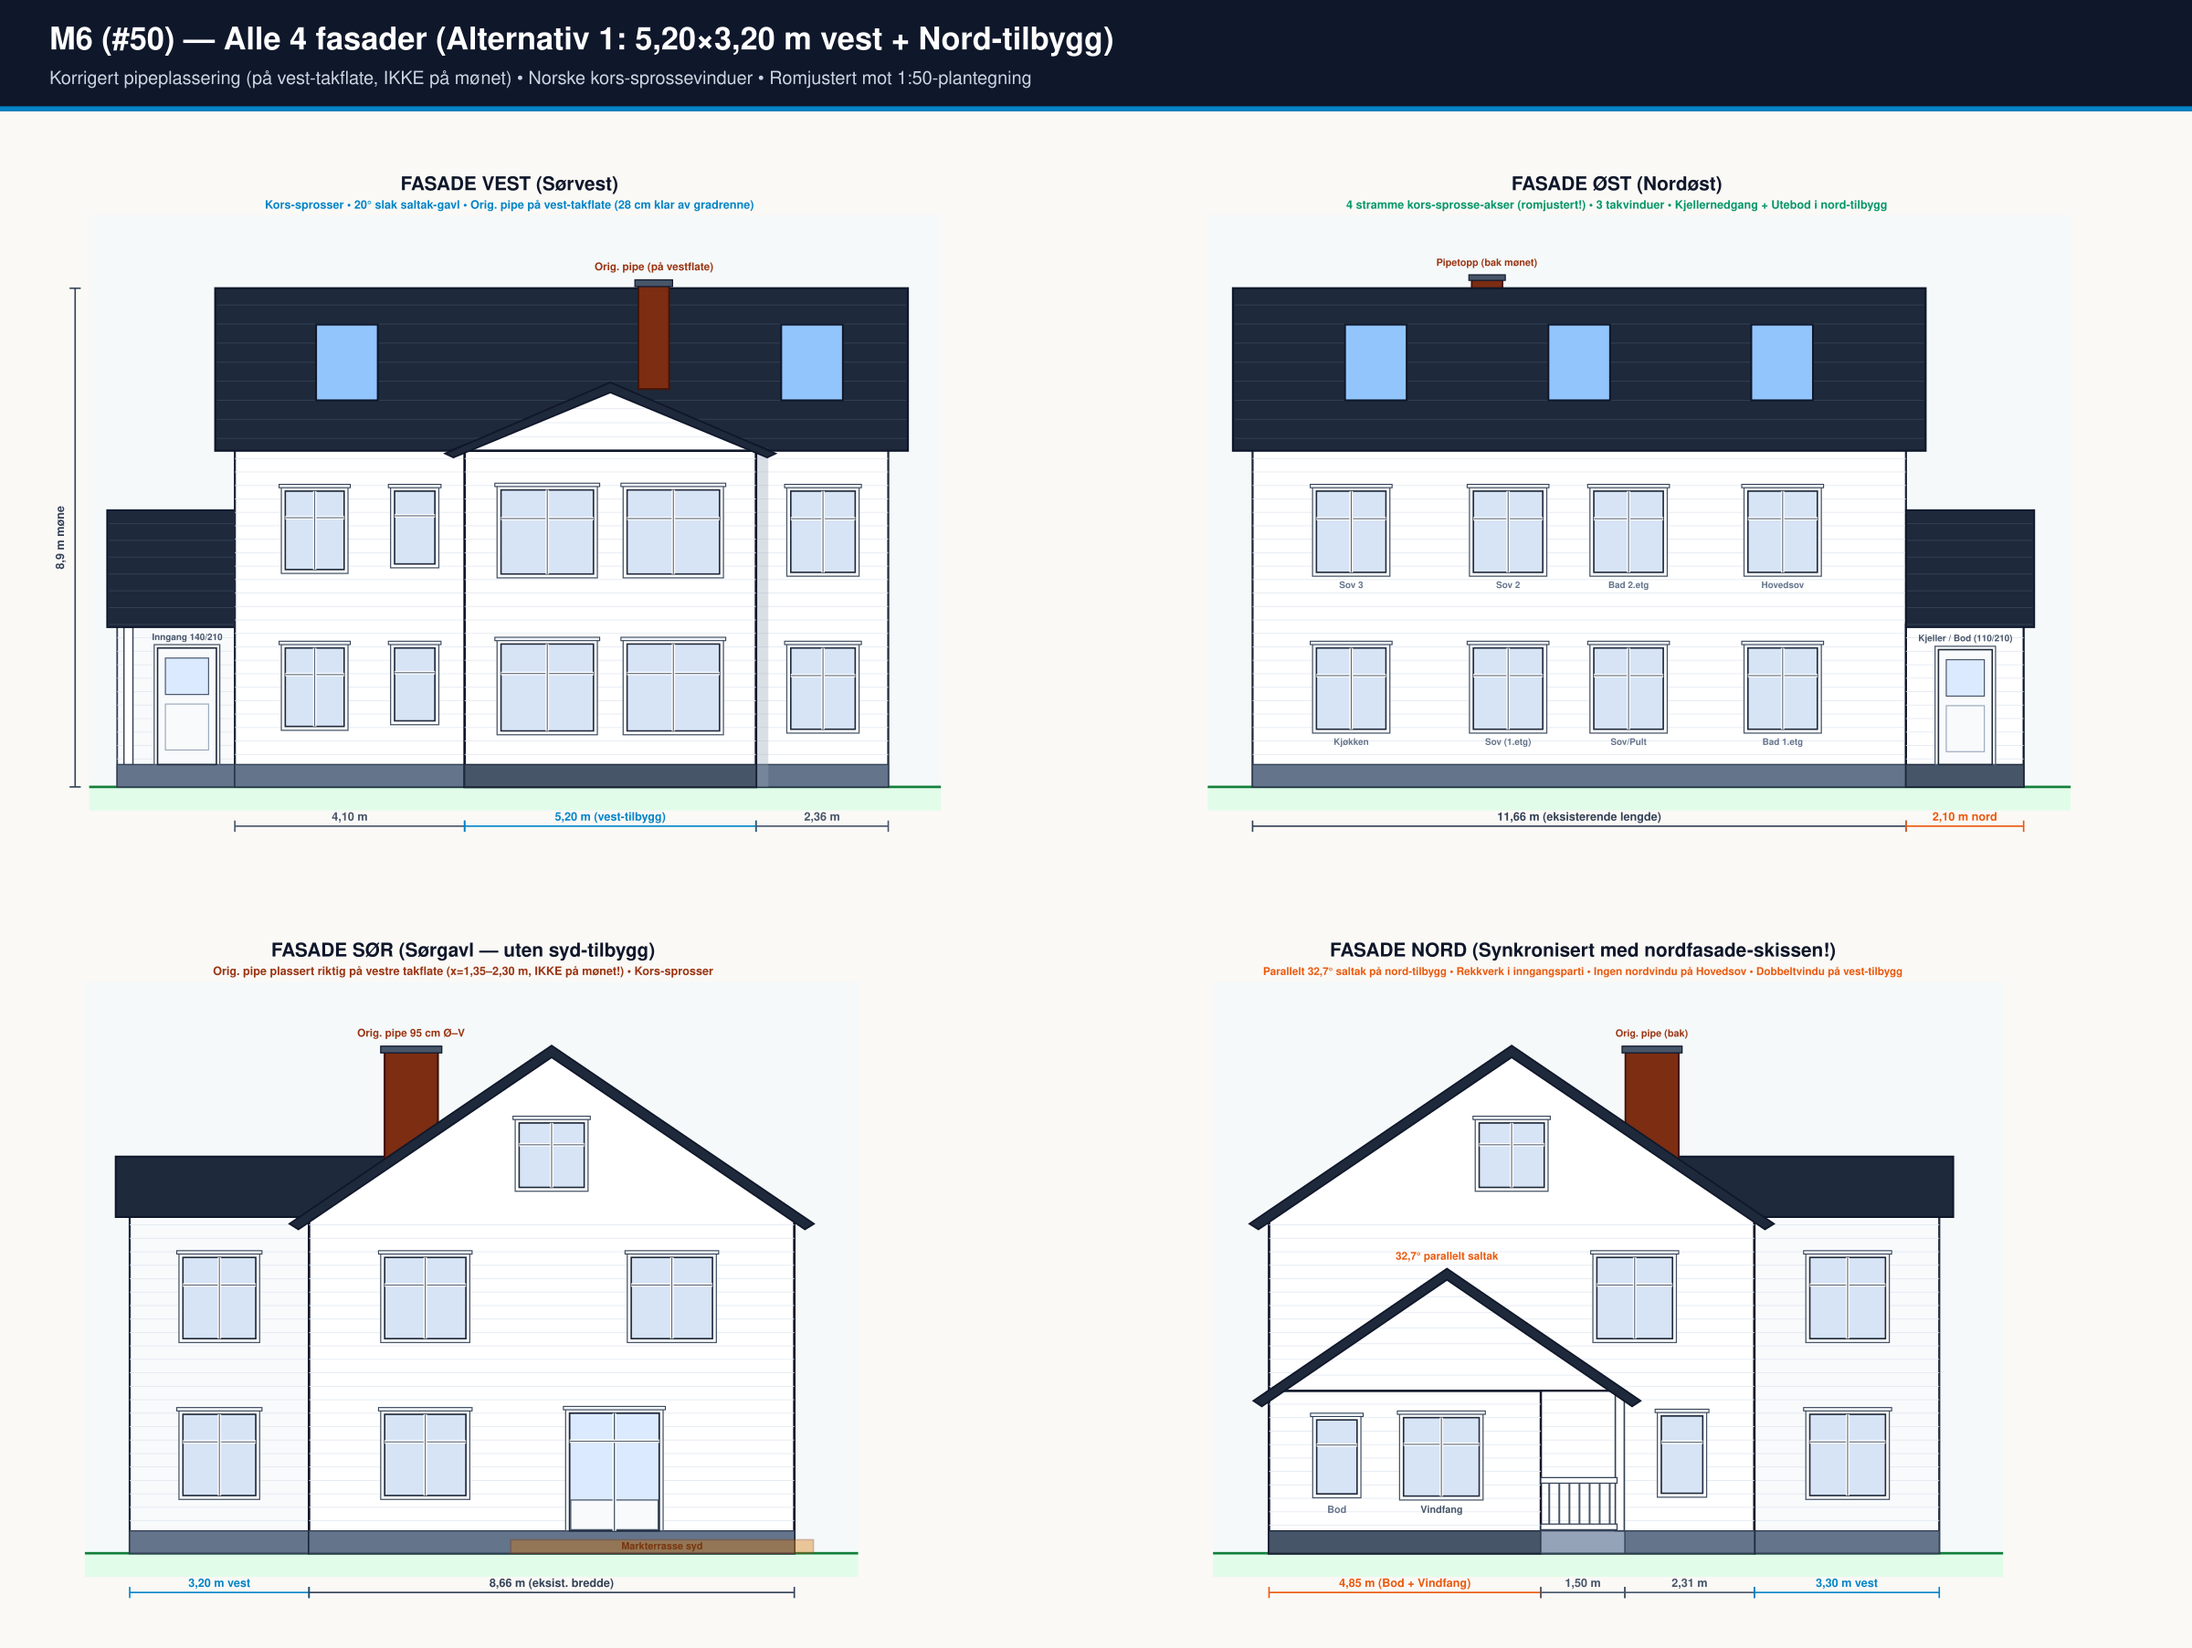
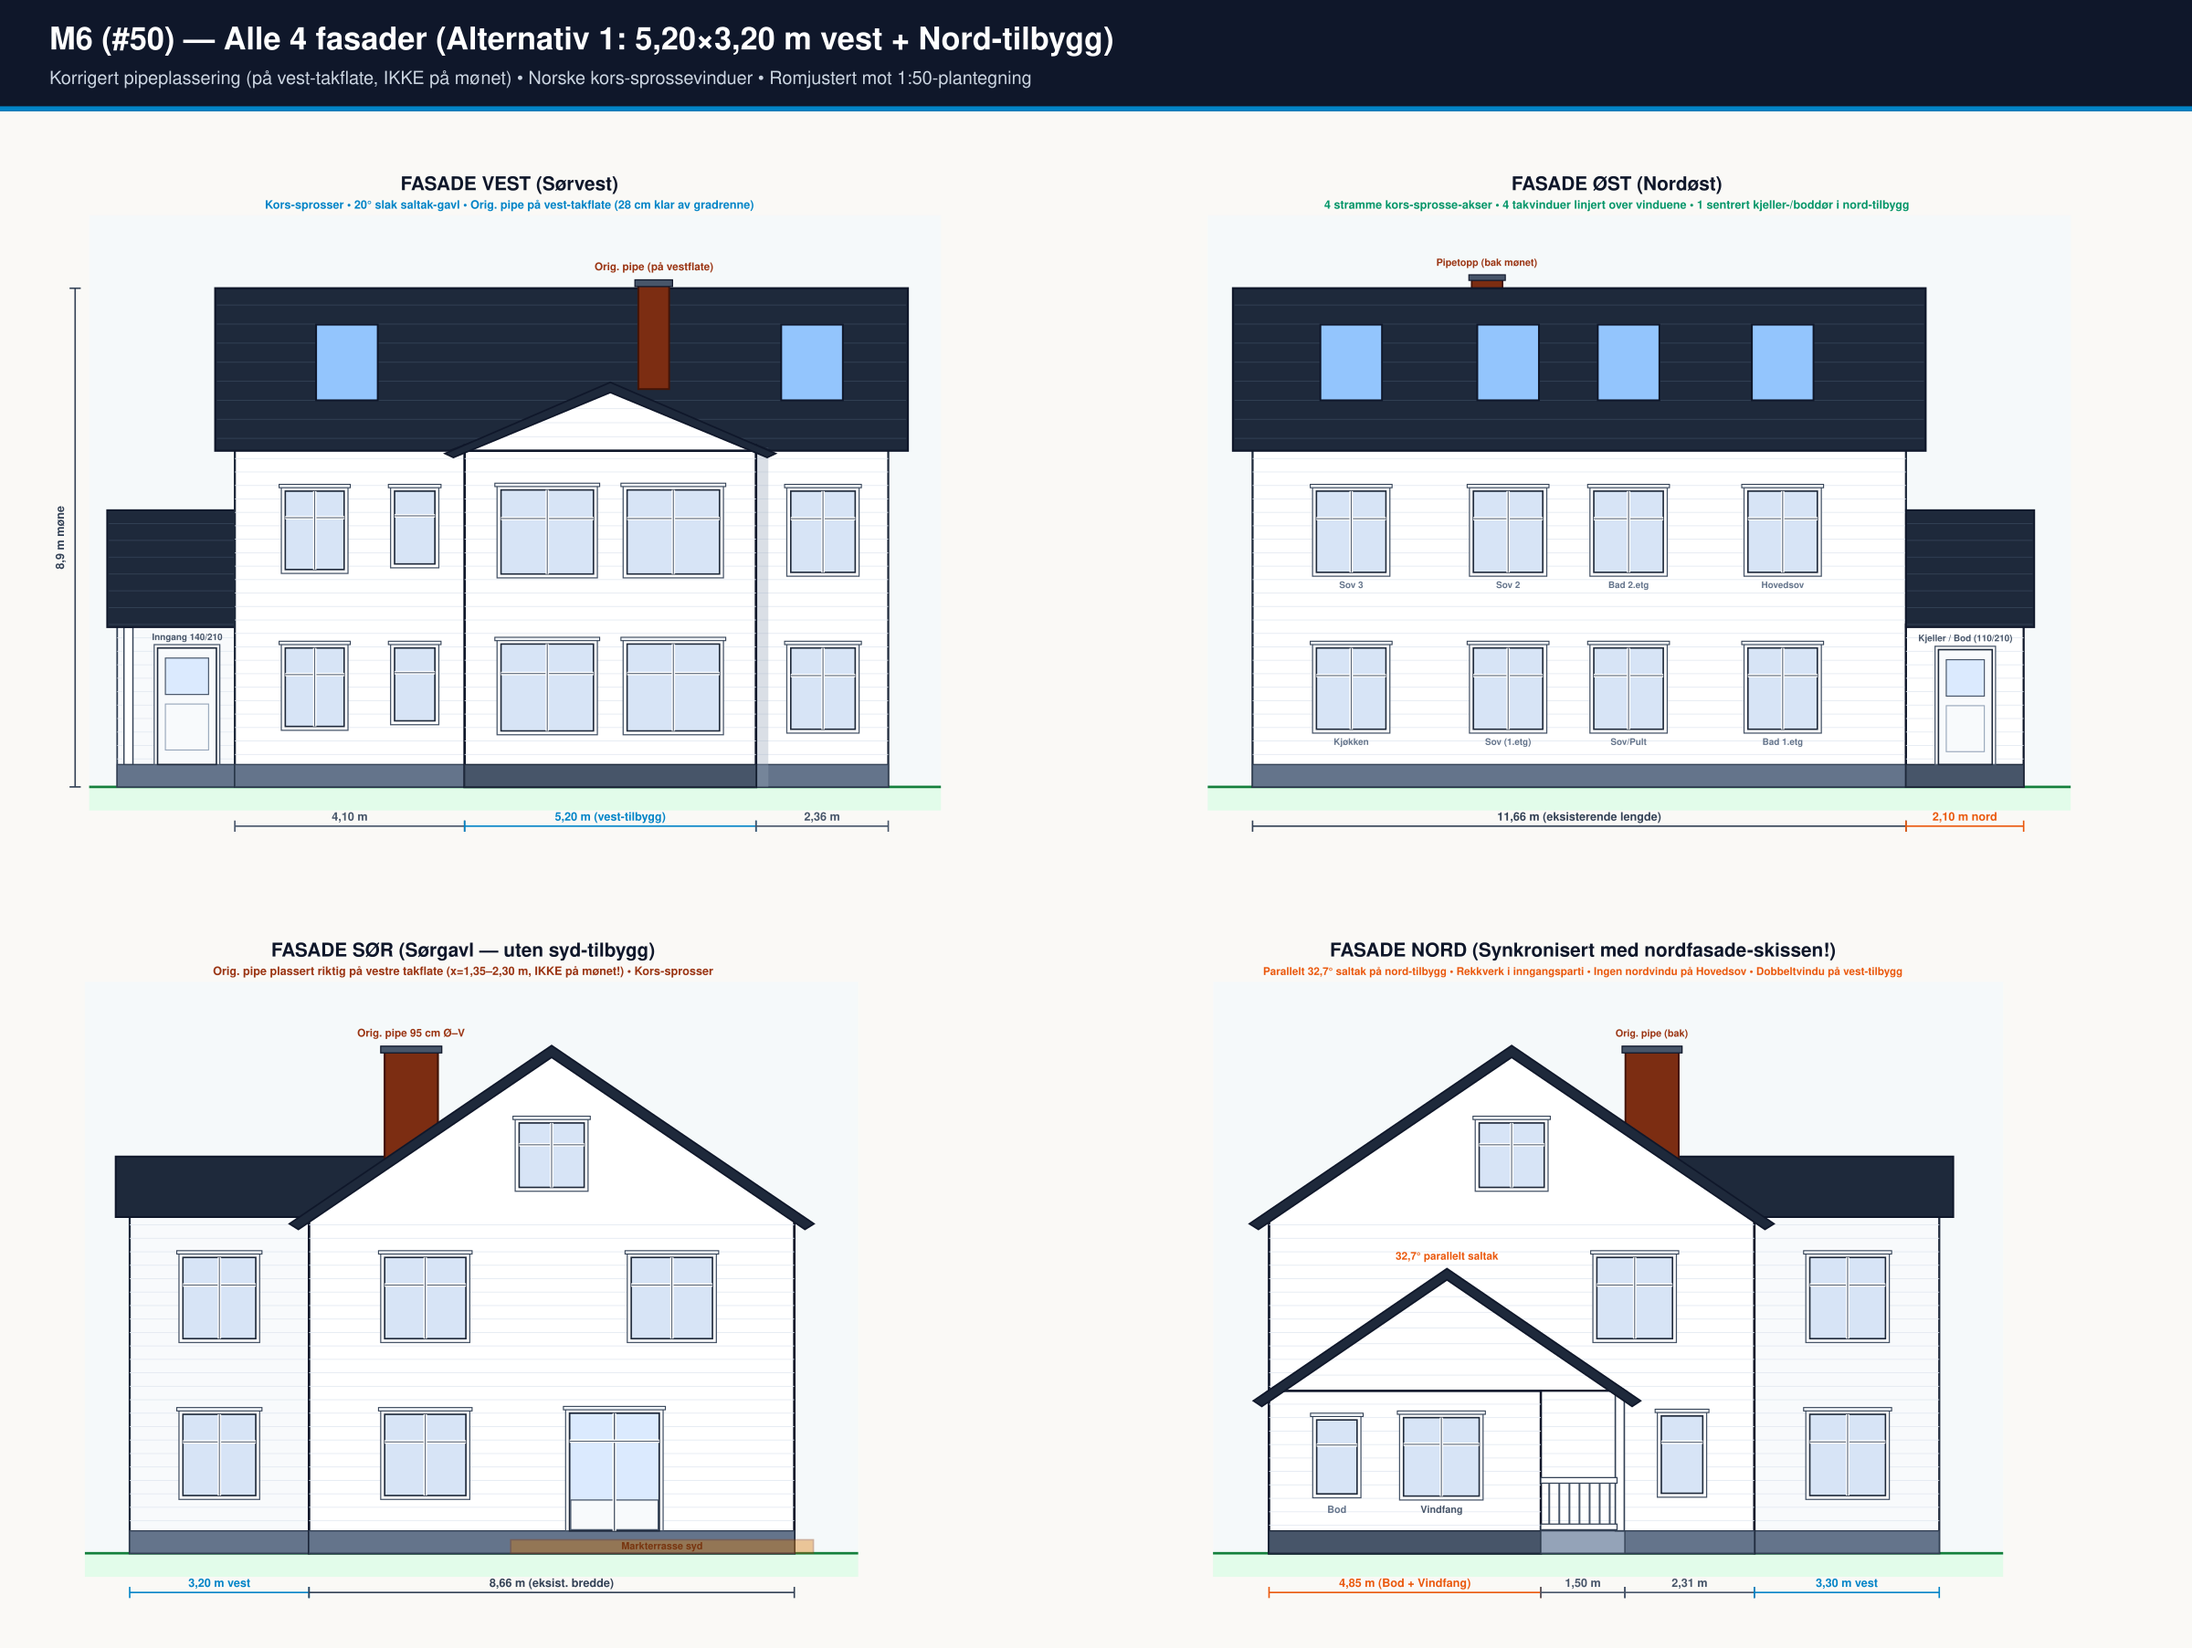
Align 4 east skylights directly over the 4 east facade window axes (#50)

Changed region(s): [[0.5938, 0.1861, 0.7812, 0.2482]]

diff --git a/scripts/generate_fasader_alle4.py b/scripts/generate_fasader_alle4.py
@@ -211,12 +211,12 @@ def draw_east(d: ElevDraw):
     d.siding(0, -610, 1166, 570)
     d.rect(0, -40, 1166, 40, fill="#64748b", stroke="#334155", sw=1.5)
 
-    # Main roof (32.7°) with 3 symmetrical skylights (as in architect's fasader-1.jpg!)
+    # Main roof (32.7°) with 4 skylights aligned directly over the 4 vertical east window axes!
     d.poly([(-35, -600), (1201, -600), (1201, -890), (-35, -890)], fill="#1e293b", stroke="#0f172a", sw=2.5)
     for ry in range(-860, -600, 34):
         d.line(-32, ry, 1198, ry, stroke="#334155", sw=1)
-    for sx in [165, 528, 890]:
-        d.rect(sx, -825, 110, 135, fill="#93c5fd", stroke="#0f172a", sw=2.2)
+    for cx in [176, 456, 671, 946]:
+        d.rect(cx - 55, -825, 110, 135, fill="#93c5fd", stroke="#0f172a", sw=2.2)
 
     # FOUR CLEAN VERTICAL KORS-SPROSSE WINDOW AXES matching exact room layout:
     # Axis 1 (Sørøst, y=990 -> x=176): 1.etg Kjøkken / 2.etg Sov 3
@@ -250,7 +250,7 @@ def draw_east(d: ElevDraw):
     d.dim_h(0, 1166, 70, "11,66 m (eksisterende lengde)", bold=True)
     d.dim_h(1166, 1376, 70, "2,10 m nord", color="#ea580c", bold=True)
     d.text(650, -1065, "FASADE ØST (Nordøst)", size=23, weight="800", fill="#0f172a")
-    d.text(650, -1032, "4 stramme kors-sprosse-akser (romjustert!) • 3 takvinduer • Kjellernedgang + Utebod i nord-tilbygg", size=14, weight="600", fill="#059669")
+    d.text(650, -1032, "4 stramme kors-sprosse-akser • 4 takvinduer linjert over vinduene • 1 sentrert kjeller-/boddør i nord-tilbygg", size=14, weight="600", fill="#059669")
 
 
 def draw_south(d: ElevDraw):

diff --git a/scripts/generate_all4_3d_refs.py b/scripts/generate_all4_3d_refs.py
@@ -84,11 +84,11 @@ def build_ne_ref():
     add_kors_north(sc, 1166, 146, 281, 385, 530, single=False, layer=3)
     add_kors_north(sc, 1166, 375, 491, 655, 770, single=False, layer=3)
 
-    # Main EAST roof slope (with 3 skylights!)
+    # Main EAST roof slope (with 4 skylights aligned directly over the 4 vertical east window axes!)
     ov_x = 866.0 + 35.0
     z_ov = z_eaves - 35.0 * t_main
     sc.add_poly([(433, -35, z_ridge), (433, 1201, z_ridge), (ov_x, 1201, z_ov), (ov_x, -35, z_ov)], "#1e293b", stroke="#0f172a", sw=2.0, layer=4)
-    for sy in [220, 583, 946]:
+    for sy in [176, 456, 671, 946]:
         xa, xb = 530.0, 645.0
         za = z_ridge - (xa - 433.0) * t_main + 3.0
         zb = z_ridge - (xb - 433.0) * t_main + 3.0
@@ -177,11 +177,11 @@ def build_se_ref():
         add_kors_east(sc, 866, cy - 62, cy + 62, 105, 250, layer=4)
         add_kors_east(sc, 866, cy - 62, cy + 62, 385, 530, layer=4)
 
-    # Main EAST roof slope (with 3 skylights)
+    # Main EAST roof slope (with 4 skylights aligned directly over the 4 vertical east window axes!)
     ov_x = 866.0 + 35.0
     z_ov = z_eaves - 35.0 * t_main
     sc.add_poly([(433, -35, z_ridge), (433, 1201, z_ridge), (ov_x, 1201, z_ov), (ov_x, -35, z_ov)], "#1e293b", stroke="#0f172a", sw=2.0, layer=5)
-    for sy in [220, 583, 946]:
+    for sy in [176, 456, 671, 946]:
         xa, xb = 530.0, 645.0
         za = z_ridge - (xa - 433.0) * t_main + 3.0
         zb = z_ridge - (xb - 433.0) * t_main + 3.0

diff --git a/docs/ARKITEKTBRIEF_M6_REV2.md b/docs/ARKITEKTBRIEF_M6_REV2.md
@@ -67,7 +67,7 @@ Eksisterende vest-utbygg (`2,28 × 4,07 m`) **rives helt** for enkel tilgang til
 
 * **Materialer:** Hvit liggende trekledning, mattsvart takstein (ev. båndtekking på pulttak), mørk grå grunnmur, sorte takrenner/nedløp.
 * **Vinduer:** Gjennomgående **ekte norske 4-ruts kors-sprossevinduer** (krysspost) på alle fasader.
-* **Østfasade:** 4 stramme, symmetriske vertikale vindusakser (`Bad/Hovedsov`, `Sov Pult/Bad`, `Sov sør/Sov 2`, `Kjøkken/Sov 3`) + 3 takvinduer.
+* **Østfasade:** 4 stramme, symmetriske vertikale vindusakser (`Bad/Hovedsov`, `Sov Pult/Bad`, `Sov sør/Sov 2`, `Kjøkken/Sov 3`) + **4 takvinduer linjert rett over fasadevinduene**.
 * **Nordfasade:** Parallelt `32,7°` saltak på nord-tilbygg (smalt bodvindu + dobbelt vindfangvindu + portico m/ rekkverk), smalt trappevindu 1. etg + dobbelt 2. etg vindu til høyre, ingen nordvindu på hovedsoverom, sentrert loftsvindu, samt 1. og 2. etg dobbeltvinduer på nordsiden av vest-tilbygget.
 * **Sørgavl:** Ren 1947-gavl uten syd-tilbygg, dobbel sprosset terrassedør ut til markterrasse i tre, 2 kors-sprossevinduer i 2. etg + sentrert loftsvindu.
 
